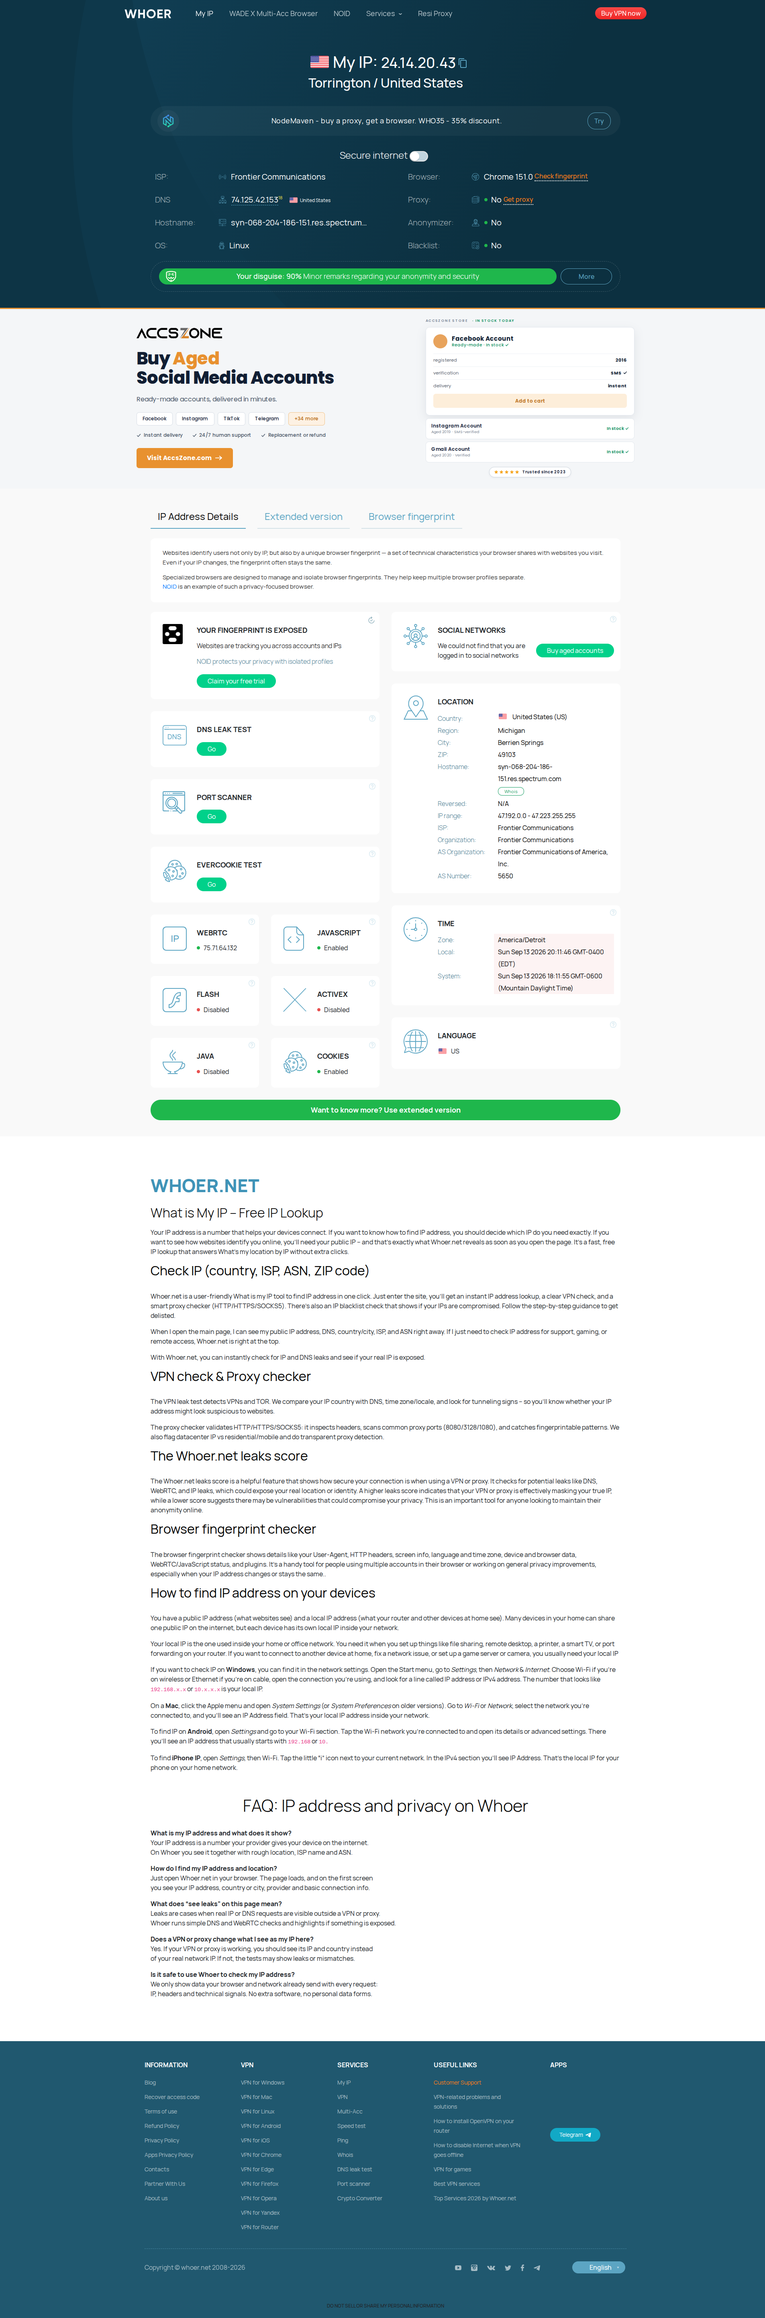
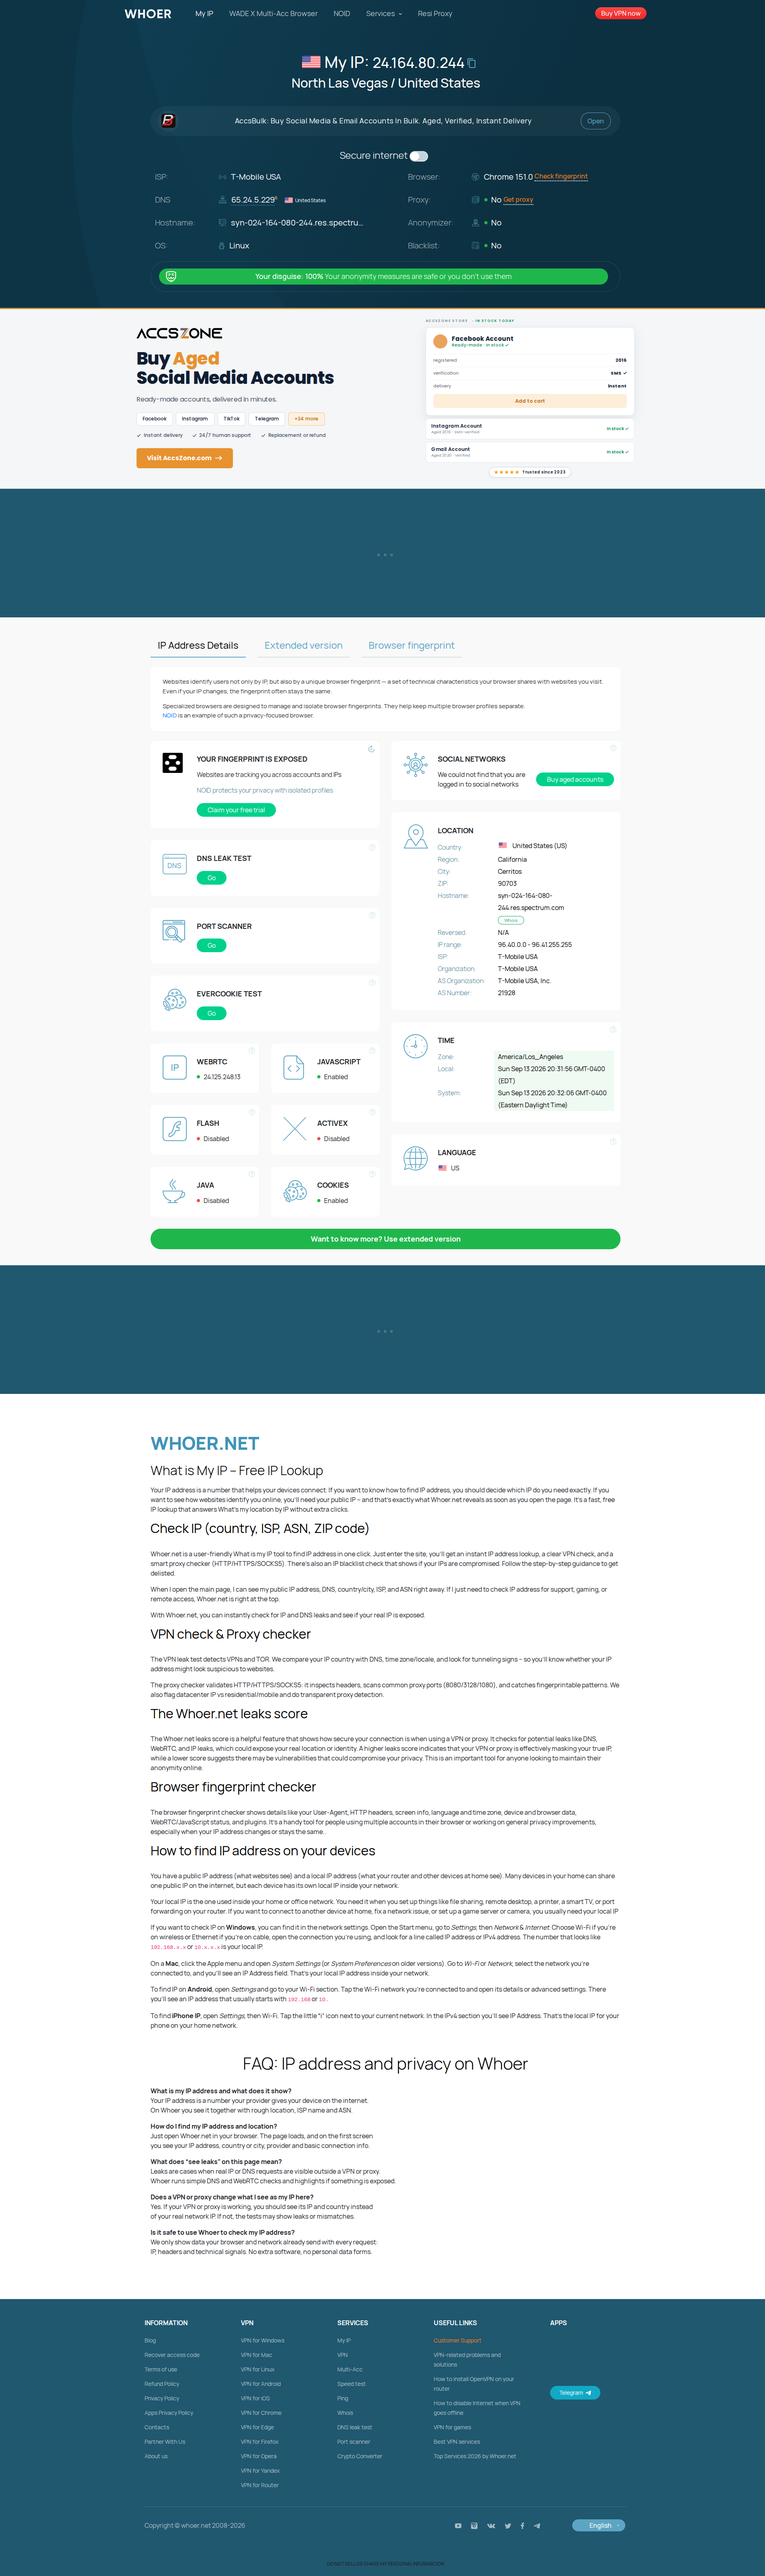
Pin process TZ to GeoIP so whoer JavaScript time matches the exit zone.

Changed region(s): [[0.0, 0.0, 1.0, 0.9672], [0.7433, 0.9672, 0.8052, 0.9984], [0.2168, 0.0312, 0.2478, 0.0624]]

diff --git a/src/hexium_browser/browser.py b/src/hexium_browser/browser.py
@@ -319,6 +319,22 @@ def _ensure_locale_env(kwargs: dict[str, Any], locale: str | None) -> None:
     kwargs["env"] = env
 
 
+def _ensure_timezone_env(kwargs: dict[str, Any], timezone: str | None) -> None:
+    """Pin libc ``TZ`` to the GeoIP / ``timezone=`` IANA id.
+
+    Blink ``Intl`` follows ``--hexium-timezone``. ``Date.toString()`` still
+    reads the process timezone, so whoer shows IP tz vs "Eastern Daylight
+    Time" unless ``TZ`` matches. Same pattern as ``HEXIUM_WEBRTC_MASK_IP``.
+    """
+    if not timezone:
+        return
+    os.environ["TZ"] = timezone
+    existing = kwargs.get("env")
+    env = dict(existing) if existing is not None else dict(os.environ)
+    env["TZ"] = timezone
+    kwargs["env"] = env
+
+
 class _ProxySettingsRequired(TypedDict):
     server: str
 
@@ -587,6 +603,7 @@ def launch_persistent_context(
     _ensure_windows_fontconfig_env(context_kwargs, chrome_args, user_data_dir)
     _ensure_persona_json_env(context_kwargs, user_data_dir)
     _ensure_locale_env(context_kwargs, locale)
+    _ensure_timezone_env(context_kwargs, timezone)
     _ensure_webrtc_mask_env(context_kwargs, chrome_args)
 
     seed_classic_theme_prefs(user_data_dir)
@@ -745,6 +762,7 @@ async def launch_persistent_context_async(
     _ensure_windows_fontconfig_env(context_kwargs, chrome_args, user_data_dir)
     _ensure_persona_json_env(context_kwargs, user_data_dir)
     _ensure_locale_env(context_kwargs, locale)
+    _ensure_timezone_env(context_kwargs, timezone)
     _ensure_webrtc_mask_env(context_kwargs, chrome_args)
 
     seed_classic_theme_prefs(user_data_dir)

diff --git a/tests/test_geoip.py b/tests/test_geoip.py
@@ -514,6 +514,28 @@ def test_launch_persistent_pk_locale_uses_gb_pack(mock_geoip, _mock_bin, tmp_pat
     assert env["LC_ALL"] == "en_GB.UTF-8"
 
 
+@patch("hexium_browser.browser.ensure_binary", return_value="/fake/chrome")
+@patch(
+    "hexium_browser.browser.maybe_resolve_geoip",
+    return_value=("America/Chicago", "en-US", "1.2.3.4"),
+)
+def test_launch_persistent_sets_tz_env_from_geoip(mock_geoip, _mock_bin, tmp_path, monkeypatch):
+    """JS Date uses libc TZ; pin it to the GeoIP IANA zone (not the host)."""
+    monkeypatch.setenv("HEXIUM_HOME", str(tmp_path))
+    monkeypatch.delenv("HEXIUM_USER_DATA_DIR", raising=False)
+    monkeypatch.delenv("HEXIUM_PROFILES_DIR", raising=False)
+    monkeypatch.delenv("TZ", raising=False)
+    pw_cm, pw, _context = _make_mock_pw_and_context()
+
+    with patch("playwright.sync_api.sync_playwright", return_value=pw_cm):
+        launch_persistent_context(tmp_path / "profile", humanize=False)
+
+    env = pw.chromium.launch_persistent_context.call_args.kwargs["env"]
+    assert env["TZ"] == "America/Chicago"
+    chrome_args = pw.chromium.launch_persistent_context.call_args.kwargs["args"]
+    assert "--hexium-timezone=America/Chicago" in chrome_args
+
+
 # ---------------------------------------------------------------------------
 # apply_geoip (persona overlay — after sample, locale/tz/webrtc only)
 # ---------------------------------------------------------------------------

diff --git a/README.md b/README.md
@@ -33,11 +33,6 @@ Sites see **Google Chrome 151**. You see Hexium Browser — a C++ persona compil
   <br><em>Headed linux-native Allegro cookie consent — <code>examples/linux-native/allegro_pl_headed_http_proxy_ephemeral_random_profile.py</code></em>
 </p>
 
-<p align="center">
-  <img src="assets/screenshots/whoer_headed_linux_native.png" alt="Headed linux-native whoer.net" width="800">
-  <br><em>Headed linux-native [whoer.net](https://whoer.net/) — <code>examples/linux-native/whoer_headed_http_proxy_ephemeral_random_profile.py</code></em>
-</p>
-
 ## Features
 
 - Playwright `launch()` — headed and `--headless=new`
@@ -192,12 +187,6 @@ Shop / cookie-consent capture (headed **linux-native**, ephemeral session, HTTP 
 <br><em>Headed Linux native — Allegro consent. Use headed + ephemeral + your own proxy for shops; do not run this flow headless.</em>
 </p>
 
-[whoer.net](https://whoer.net/) — headed, ephemeral random profile, rotating HTTP proxy (`HEXIUM_PROXY`). Captures from `examples/*/whoer_headed_http_proxy_ephemeral_random_profile.py`.
-
-| ![whoer linux-native](assets/screenshots/whoer_headed_linux_native.png) | ![whoer windows-chrome](assets/screenshots/whoer_headed_windows_chrome.png) | ![whoer linux-chrome](assets/screenshots/whoer_headed_linux_chrome.png) |
-| --- | --- | --- |
-| `linux-native` | `windows-chrome` | `linux-chrome` |
-
 Headless walk (`examples/linux-native/test_headless.py`, `examples/windows-chrome/test_headless.py`): [headless-detector.vercel.app](https://headless-detector.vercel.app/) then [Infosimples detect-headless](https://infosimples.github.io/detect-headless/).
 
 | Oracle | What the capture shows |
@@ -230,6 +219,12 @@ Headless walk (`examples/linux-native/test_headless.py`, `examples/windows-chrom
 | ![Rebrowser bot detector](assets/screenshots/stealth_test_Rebrowser_Bot_Detector.png) | ![bot.incolumitas.com](assets/screenshots/stealth_test_bot_incolumitas_com.png) |
 | --- | --- |
 | Rebrowser bot detector — no webdriver, no Playwright init scripts | bot.incolumitas.com — `examples/linux-native/stealth_test.py` |
+
+[whoer.net](https://whoer.net/) — headed, ephemeral random profile, rotating HTTP proxy (`HEXIUM_PROXY`). Captures from `examples/*/whoer_headed_http_proxy_ephemeral_random_profile.py`.
+
+| ![whoer linux-native](assets/screenshots/whoer_headed_linux_native.png) | ![whoer windows-chrome](assets/screenshots/whoer_headed_windows_chrome.png) | ![whoer linux-chrome](assets/screenshots/whoer_headed_linux_chrome.png) |
+| --- | --- | --- |
+| `linux-native` | `windows-chrome` | `linux-chrome` |
 
 <details>
 <summary>CreepJS</summary>

diff --git a/docs/USAGE.md b/docs/USAGE.md
@@ -142,7 +142,7 @@ launch(persona="windows-chrome", fingerprint="account-1")
 
 ## GeoIP
 
-On by default. With `pip install 'hexium-browser[geoip]'`, Hexium maps the **egress IP** (proxy exit, or the machine public IP) to timezone, locale, `navigator.languages`, `--hexium-webrtc-ip=`, and `HEXIUM_WEBRTC_MASK_IP`.
+On by default. With `pip install 'hexium-browser[geoip]'`, Hexium maps the **egress IP** (proxy exit, or the machine public IP) to timezone, locale, `navigator.languages`, `--hexium-webrtc-ip=`, `HEXIUM_WEBRTC_MASK_IP`, and the process `TZ` (so `Date.toString()` matches `Intl`, not the host).
 
 - `geoip=False` opts out
 - Explicit `timezone=` / `locale=` always win

diff --git a/CHANGELOG.md b/CHANGELOG.md
@@ -10,6 +10,10 @@ The format follows [Keep a Changelog](https://keepachangelog.com/en/1.1.0/). Ver
 
 ## [Unreleased]
 
+### [wrapper]
+
+- GeoIP also sets process `TZ` so JavaScript `Date` matches the exit timezone (whoer JS time vs Intl).
+
 ---
 
 ## [2026-09-14] — git main (no PyPI bump)
